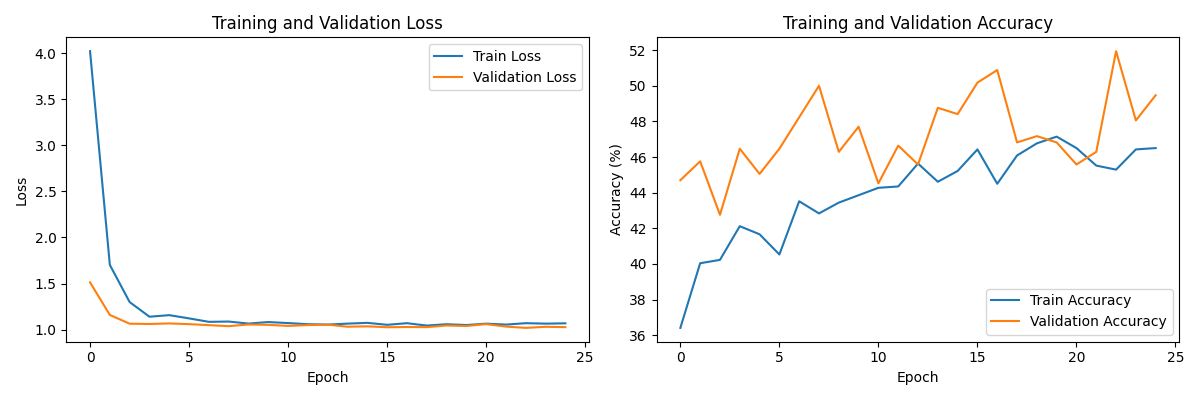
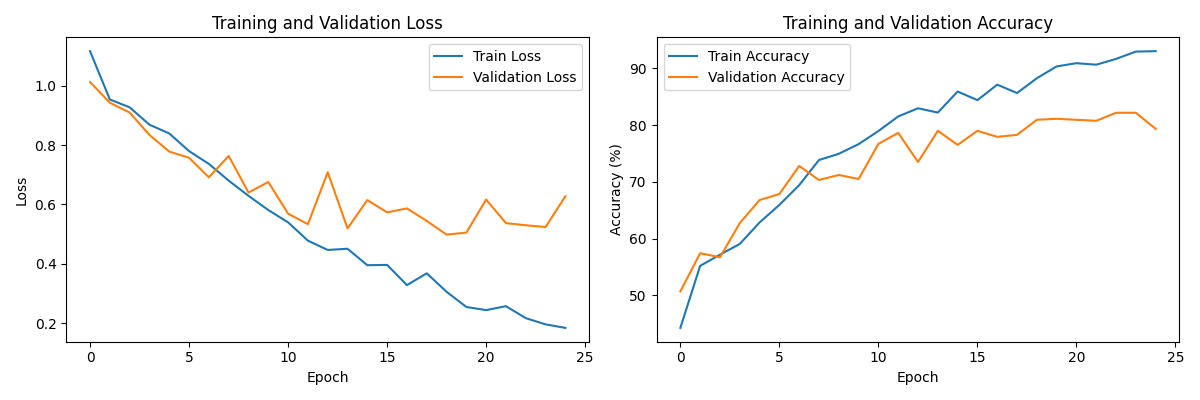
updated CNN
updated to CNN for code, made new images.

diff --git a/code/connet.py b/code/connet.py
@@ -1,0 +1,368 @@
+import torch
+import torch.nn as nn
+import torch.optim as optim
+import torchvision.transforms as transforms
+from torch.utils.data import Dataset, DataLoader, random_split
+from PIL import Image
+import os
+import numpy as np
+from sklearn.metrics import precision_recall_fscore_support, accuracy_score, confusion_matrix
+import matplotlib.pyplot as plt
+import seaborn as sns
+
+# Check if CUDA is available and print GPU details if present
+if torch.cuda.is_available():
+    print("CUDA available:", torch.cuda.is_available())
+    print("GPU Device:", torch.cuda.get_device_name(0))
+    torch.cuda.empty_cache()  # Clear any cached data to free up memory
+else:
+    print("CUDA not available.")
+
+# Check if MPS (Metal Performance Shaders) is available (for Mac with Apple Silicon)
+if torch.backends.mps.is_available():
+    print("MPS (Metal Performance Shaders) available.")
+    # You can set the default device to MPS if available
+    device = torch.device("mps")
+else:
+    print("MPS not available.")
+
+# Function to plot and save confusion matrix
+def plot_confusion_matrix(true_labels, predictions, classes):
+    cm = confusion_matrix(true_labels, predictions)
+    plt.figure(figsize=(10, 8))
+    sns.heatmap(cm, annot=True, fmt='d', cmap='Blues',
+                xticklabels=classes,
+                yticklabels=classes)
+    plt.title('Confusion Matrix')
+    plt.xlabel('Predicted')
+    plt.ylabel('True')
+    plt.tight_layout()
+    plt.savefig('confusion_matrix.png')
+    plt.close()
+
+class FruitClassifierCNN(nn.Module):
+    def __init__(self, num_classes=3):
+        super(FruitClassifierCNN, self).__init__()
+
+        # Convolutional layers
+        self.conv_layers = nn.Sequential(
+            # First convolutional block: (3 x 299 x 299) -> (32 x 149 x 149)
+            nn.Conv2d(in_channels=3, out_channels=32, kernel_size=3, stride=1, padding=1),
+            nn.ReLU(),
+            nn.MaxPool2d(kernel_size=2, stride=2),  # 299x299 -> 149x149
+            
+            # Second convolutional block: (32 x 149 x 149) -> (64 x 74 x 74)
+            nn.Conv2d(in_channels=32, out_channels=64, kernel_size=3, stride=1, padding=1),
+            nn.ReLU(),
+            nn.MaxPool2d(kernel_size=2, stride=2),  # 149x149 -> 74x74
+            
+            # Third convolutional block: (64 x 74 x 74) -> (128 x 37 x 37)
+            nn.Conv2d(in_channels=64, out_channels=128, kernel_size=3, stride=1, padding=1),
+            nn.ReLU(),
+            nn.MaxPool2d(kernel_size=2, stride=2),  # 74x74 -> 37x37
+            
+            # Fourth convolutional block: (128 x 37 x 37) -> (256 x 18 x 18)
+            nn.Conv2d(in_channels=128, out_channels=256, kernel_size=3, stride=1, padding=1),
+            nn.ReLU(),
+            nn.MaxPool2d(kernel_size=2, stride=2),  # 37x37 -> 18x18
+        )
+
+        # Fully connected layers
+        self.fc_layers = nn.Sequential(
+            # The input to the fully connected layer is now 256 * 18 * 18
+            nn.Linear(256 * 18 * 18, 512),
+            nn.ReLU(),
+            nn.Dropout(0.4),
+            nn.Linear(512, num_classes)  # Output layer
+        )
+
+    def forward(self, x):
+        x = self.conv_layers(x)  # Pass through convolutional layers
+        x = x.view(x.size(0), -1)  # Flatten the output of the convolutional layers
+        x = self.fc_layers(x)  # Pass through fully connected layers
+        return x
+
+    
+# Custom dataset class to load images from directory
+class FruitDataset(Dataset):
+    def __init__(self, root_dir, transform=None):
+        self.root_dir = root_dir  # Root directory containing subfolders for each class
+        self.transform = transform
+        self.classes = ['cherry', 'strawberry', 'tomato']  # List of class labels
+        self.class_to_idx = {cls: i for i, cls in enumerate(self.classes)}  # Mapping of class names to integer labels
+        
+        self.images = []  # List to hold file paths of images
+        self.labels = []  # Corresponding list of labels for images
+        
+        # Traverse each class folder, and collect image file paths
+        for class_name in self.classes:
+            class_dir = os.path.join(root_dir, class_name)
+            for img_name in os.listdir(class_dir):
+                if img_name.lower().endswith(('.png', '.jpg', '.jpeg')):  # Check for valid image file types
+                    self.images.append(os.path.join(class_dir, img_name))  # Add image file path
+                    self.labels.append(self.class_to_idx[class_name])  # Add corresponding label
+
+    def __len__(self):
+        return len(self.images)  # Return the total number of images
+
+    def __getitem__(self, idx):
+        img_path = self.images[idx]  # Get image path by index
+        image = Image.open(img_path).convert('RGB')  # Open image and convert to RGB format
+        label = self.labels[idx]  # Get corresponding label
+
+        if self.transform:
+            image = self.transform(image)  # Apply any transformations (e.g., resize, normalize)
+
+        return image, label  # Return image and label pair
+
+# Function to train the model
+def train_model(model, train_loader, val_loader, criterion, optimizer, num_epochs, device):
+    train_losses = []  # To store training loss for each epoch
+    val_losses = []  # To store validation loss for each epoch
+    train_accuracies = []  # To store training accuracy for each epoch
+    val_accuracies = []  # To store validation accuracy for each epoch
+    
+    for epoch in range(num_epochs):
+        # Training phase
+        model.train()  # Set model to training mode
+        train_loss = 0.0
+        train_correct = 0
+        train_total = 0
+        
+        for images, labels in train_loader:
+            images, labels = images.to(device), labels.to(device)  # Move data to the GPU if available
+            
+            optimizer.zero_grad()  # Clear the previous gradients
+            outputs = model(images)  # Forward pass
+            loss = criterion(outputs, labels)  # Compute the loss
+            loss.backward()  # Backward pass to compute gradients
+            optimizer.step()  # Update model parameters
+            
+            train_loss += loss.item()  # Accumulate training loss
+            _, predicted = torch.max(outputs.data, 1)  # Get predicted class
+            train_total += labels.size(0)  # Total number of samples
+            train_correct += (predicted == labels).sum().item()  # Count correct predictions
+        
+        train_loss = train_loss / len(train_loader)  # Average training loss
+        train_accuracy = 100 * train_correct / train_total  # Training accuracy as a percentage
+        train_losses.append(train_loss)
+        train_accuracies.append(train_accuracy)
+        
+        # Validation phase (no gradient computation)
+        model.eval()  # Set model to evaluation mode
+        val_loss = 0.0
+        val_correct = 0
+        val_total = 0
+        
+        with torch.no_grad():  # Disable gradient calculations
+            for images, labels in val_loader:
+                images, labels = images.to(device), labels.to(device)
+                outputs = model(images)
+                loss = criterion(outputs, labels)
+                
+                val_loss += loss.item()
+                _, predicted = torch.max(outputs.data, 1)
+                val_total += labels.size(0)
+                val_correct += (predicted == labels).sum().item()
+        
+        val_loss = val_loss / len(val_loader)  # Average validation loss
+        val_accuracy = 100 * val_correct / val_total  # Validation accuracy as a percentage
+        val_losses.append(val_loss)
+        val_accuracies.append(val_accuracy)
+        
+        # Print progress for each epoch
+        print(f'Epoch [{epoch+1}/{num_epochs}]')
+        print(f'Train Loss: {train_loss:.4f}, Train Accuracy: {train_accuracy:.2f}%')
+        print(f'Val Loss: {val_loss:.4f}, Val Accuracy: {val_accuracy:.2f}%')
+        print('-' * 50)
+    
+    return train_losses, val_losses, train_accuracies, val_accuracies
+
+# Evaluate the trained model on test data and generate performance metrics
+def evaluate_model(model, test_loader, device, classes):
+    model.eval()  # Set model to evaluation mode
+    all_predictions = []
+    all_labels = []
+    
+    # No gradient calculation required for evaluation
+    with torch.no_grad():
+        for images, labels in test_loader:
+            images, labels = images.to(device), labels.to(device)
+            outputs = model(images)
+            _, predicted = torch.max(outputs.data, 1)
+            
+            all_predictions.extend(predicted.cpu().numpy())  # Move predictions to CPU
+            all_labels.extend(labels.cpu().numpy())  # Move labels to CPU
+    
+    # Calculate overall accuracy, precision, recall, and F1-score
+    accuracy = accuracy_score(all_labels, all_predictions)
+    precision, recall, f1, _ = precision_recall_fscore_support(all_labels, all_predictions, average='weighted')
+    
+    # Calculate metrics for each class
+    per_class_precision, per_class_recall, per_class_f1, _ = precision_recall_fscore_support(all_labels, all_predictions, average=None)
+    
+    # Plot the confusion matrix
+    plot_confusion_matrix(all_labels, all_predictions, classes)
+    
+    # Print out the overall metrics
+    print("\nOverall Metrics:")
+    print(f"Accuracy: {accuracy:.4f}")
+    print(f"Precision: {precision:.4f}")
+    print(f"Recall: {recall:.4f}")
+    print(f"F1-score: {f1:.4f}")
+    
+    # Print per-class metrics
+    print("\nPer-class Metrics:")
+    for i, class_name in enumerate(classes):
+        print(f"\n{class_name}:")
+        print(f"Precision: {per_class_precision[i]:.4f}")
+        print(f"Recall: {per_class_recall[i]:.4f}")
+        print(f"F1-score: {per_class_f1[i]:.4f}")
+
+# Plot training and validation history (loss and accuracy) over epochs
+def plot_training_history(train_losses, val_losses, train_accuracies, val_accuracies):
+    plt.figure(figsize=(12, 4))
+    
+    # Plot training and validation loss
+    plt.subplot(1, 2, 1)
+    plt.plot(train_losses, label='Train Loss')
+    plt.plot(val_losses, label='Validation Loss')
+    plt.xlabel('Epoch')
+    plt.ylabel('Loss')
+    plt.title('Training and Validation Loss')
+    plt.legend()
+    
+    # Plot training and validation accuracy
+    plt.subplot(1, 2, 2)
+    plt.plot(train_accuracies, label='Train Accuracy')
+    plt.plot(val_accuracies, label='Validation Accuracy')
+    plt.xlabel('Epoch')
+    plt.ylabel('Accuracy (%)')
+    plt.title('Training and Validation Accuracy')
+    plt.legend()
+    
+    plt.tight_layout()
+    plt.savefig('training_history.png')  # Save the plot to a file
+    plt.close()
+
+def main():
+    # Hyperparameters
+    input_size = 300 * 300 * 3  # Input size for 28x28 RGB images
+    hidden_size = 512  # Number of neurons in the hidden layer
+    num_classes = 3  # Number of output classes (cherry, strawberry, tomato)
+    num_epochs = 25  # Number of training epochs
+    batch_size = 64  # Batch size for training and evaluation
+    learning_rate = 0.001  # Learning rate for optimizer
+    train_split = 0.70  # Percentage of data to use for training
+    val_split = 0.15  # Percentage of data to use for validation
+    # Remaining 15% will be used for testing
+    
+     # GPU Setup
+    if torch.cuda.is_available():
+        device = torch.device('cuda:0')  # Explicitly use the first GPU
+        torch.backends.cudnn.benchmark = True  # Enable cuDNN auto-tuner
+        print(f"Using GPU: {torch.cuda.get_device_name(0)}")
+    elif torch.backends.mps.is_available():
+        device = torch.device('mps')
+        print("Using Apple MPS")
+    else:
+        device = torch.device('cpu')
+        print("Using CPU")
+    
+    # Print PyTorch CUDA version for verification
+    #print(f"PyTorch CUDA version: {torch.version.cuda}")
+
+    # Define image transformations: resize to 28x28, convert to tensor, and normalize
+    transform = transforms.Compose([
+        transforms.Resize((299, 299)),
+        transforms.RandomHorizontalFlip(),
+        transforms.RandomRotation(15),
+        transforms.ToTensor(),
+        transforms.Normalize((0.5, 0.5, 0.5), (0.5, 0.5, 0.5))  # Normalize RGB channels
+    ])
+
+    # Load the dataset
+    train_data_path = os.path.join('..', 'train_data')  # Root directory for dataset
+    full_dataset = FruitDataset(root_dir=train_data_path, transform=transform)
+    
+    # Calculate split sizes for training, validation, and testing
+    total_size = len(full_dataset)
+    train_size = int(train_split * total_size)
+    val_size = int(val_split * total_size)
+    test_size = total_size - train_size - val_size
+    
+    # Split the dataset into training, validation, and test sets
+    train_dataset, val_dataset, test_dataset = random_split(
+        full_dataset, 
+        [train_size, val_size, test_size],
+        generator=torch.Generator().manual_seed(42)  # Set seed for reproducibility
+    )
+    
+    # Create DataLoader for efficient data loading
+    train_loader = DataLoader(
+        train_dataset, 
+        batch_size=batch_size, 
+        shuffle=True,  # Shuffle data for better training
+        num_workers=4,  # Use multiple workers for faster data loading
+        pin_memory=True,  # Optimize data transfer to GPU
+        persistent_workers=True  # Keep workers alive across epochs
+    )
+    
+    val_loader = DataLoader(
+        val_dataset, 
+        batch_size=batch_size,
+        num_workers=4,
+        pin_memory=True,
+        persistent_workers=True
+    )
+    
+    test_loader = DataLoader(
+        test_dataset, 
+        batch_size=batch_size,
+        num_workers=4,
+        pin_memory=True,
+        persistent_workers=True
+    )
+
+    # Print dataset sizes for training, validation, and testing
+    print(f"\nDataset splits:")
+    print(f"Training: {len(train_dataset)} images")
+    print(f"Validation: {len(val_dataset)} images")
+    print(f"Test: {len(test_dataset)} images")
+
+    # Initialize the model, move it to the GPU (if available)
+    model = FruitClassifierCNN(num_classes=num_classes)
+    model = model.to(device)  # Move model to GPU or CPU as needed
+    
+    # Define loss function (CrossEntropy) and optimizer (Adam)
+    criterion = nn.CrossEntropyLoss()
+    optimizer = optim.Adam(model.parameters(), lr=learning_rate)
+
+    print("\nStarting training...")
+    # Train the model and capture loss/accuracy history
+    train_losses, val_losses, train_accuracies, val_accuracies = train_model(
+        model, train_loader, val_loader, criterion, optimizer, num_epochs, device
+    )
+    
+    # Plot training history (loss and accuracy)
+    plot_training_history(train_losses, val_losses, train_accuracies, val_accuracies)
+    print("\nTraining history plot saved as 'training_history.png'")
+
+    # Evaluate the trained model on the test set
+    print("\nEvaluating model on test set:")
+    evaluate_model(model, test_loader, device, full_dataset.classes)
+    print("\nConfusion matrix saved as 'confusion_matrix.png'")
+
+    # # Save the trained model and optimizer state as a checkpoint
+    # model_save_path = 'fruit_classifier.pth'
+    # torch.save({
+    #     'epoch': num_epochs,
+    #     'model_state_dict': model.state_dict(),
+    #     'optimizer_state_dict': optimizer.state_dict(),
+    #     'train_loss': train_losses[-1],
+    #     'val_loss': val_losses[-1],
+    # }, model_save_path)
+    # print(f"\nModel checkpoint saved to {model_save_path}")
+
+if __name__ == '__main__':
+    main()

diff --git a/code/generateImages.py b/code/generateImages.py
@@ -5,7 +5,7 @@ from PIL import Image
 
 # Define the model and prompt
 model_id = "runwayml/stable-diffusion-v1-5"
-prompt = "A close-up of a fresh strawberry in good lighting and clean background"
+prompt = "A close-up of a photoreal fresh strawberry patch in good lighting"
 
 def generate_strawberry_images(prompt, num_images, size=(300, 300)):
     # Load the pre-trained Stable Diffusion model
@@ -33,9 +33,9 @@ def generate_strawberry_images(prompt, num_images, size=(300, 300)):
         image = image.resize(size, Image.LANCZOS)
 
         # Save the generated image with a unique filename
-        save_path = f"strawberry_image_{i+1}.png"
+        save_path = f"strawberry2_image_{i+1}.png"
         image.save(save_path)
         print(f"Image {i+1} saved as {save_path}")
 
 # Generate 50 strawberry images
-generate_strawberry_images(prompt, num_images=1)
+generate_strawberry_images(prompt, num_images=2)
